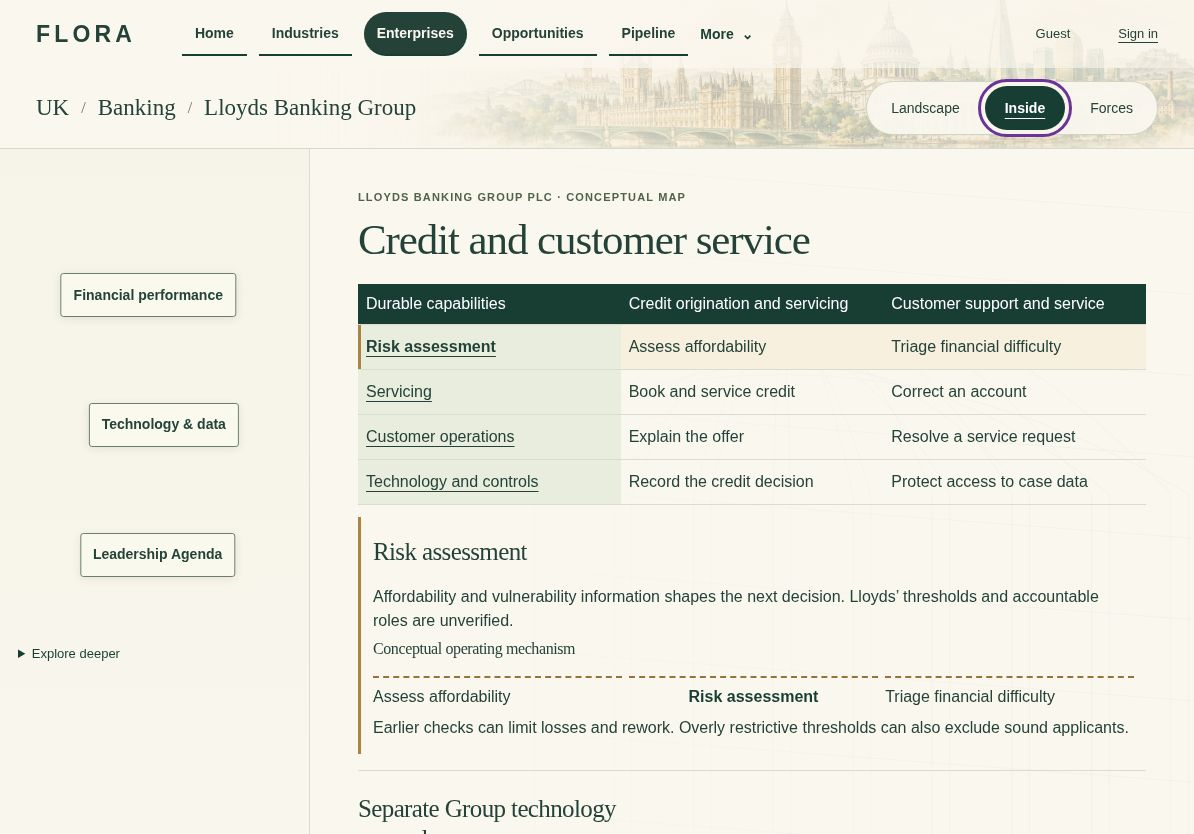
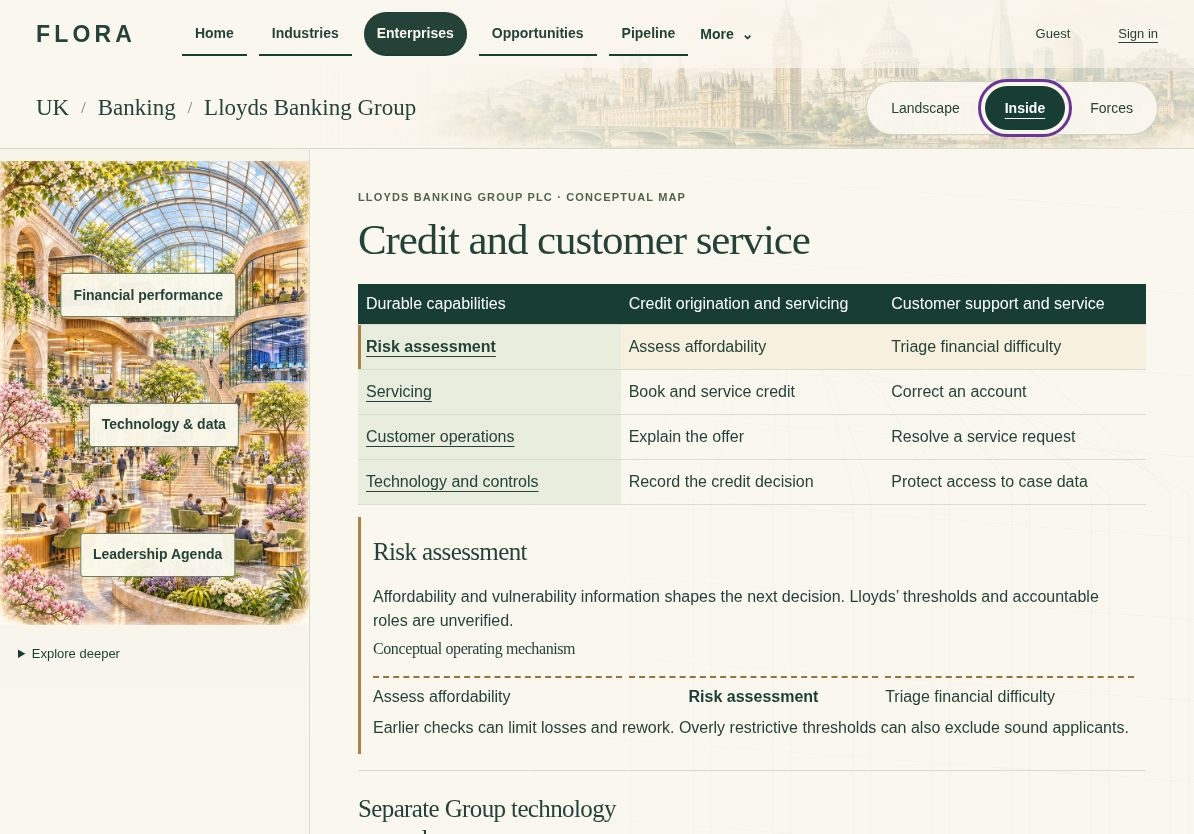
Verify fully loaded illustrations in recovery comparisons

Changed region(s): [[0.0, 0.1871, 0.2789, 0.7482]]

diff --git a/docs/flora-runtime/accepted-ux-recovery/browser.py b/docs/flora-runtime/accepted-ux-recovery/browser.py
@@ -39,6 +39,8 @@ with TemporaryDirectory() as directory, sync_playwright() as playwright:
             page.set_default_timeout(10000)
 
             def capture(name):
+                page.evaluate('document.fonts.ready')
+                page.wait_for_function("[...document.images].filter(image => image.checkVisibility()).every(image => image.complete && image.naturalWidth > 0)")
                 assert page.evaluate('document.documentElement.scrollWidth <= innerWidth'), name
                 page.screenshot(path=output / f'{phase}-{device}-{name}.jpg', quality=80)
 

diff --git a/docs/flora-runtime/accepted-ux-recovery/Validation.md b/docs/flora-runtime/accepted-ux-recovery/Validation.md
@@ -18,6 +18,8 @@ The existing Enterprise Economics hosted workflow also runs the recovery tests a
 
 The historical comparator, approved failures/skips and original security tests remain unchanged. The compatibility adapter accepts **only exact reviewed file bytes and named presentation-function changes** against the verified predecessor. It retains prior AST checks and rejects any unreviewed mutation; this grants no runtime authority.
 
+[Baseline capture manifest](Before-Proof.json) · [Recovery capture manifest](Browser-Proof.json) · [Protected files and rollback proof](Integrity-Proof.json). These record their actual checkout identities; the final PR head repeats integrity validation.
+
 ## Individual stale assertion reconciliation
 
 | Test family | Old assertion | Justified correction / retained boundary |
